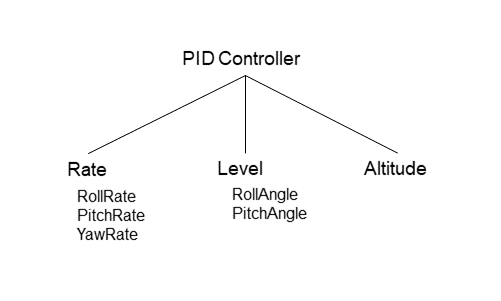
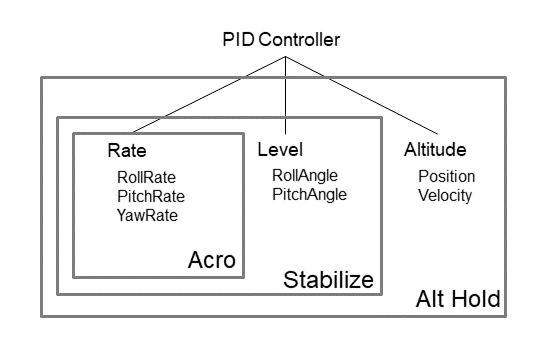
Updated diagram

Changed region(s): [[0.0599, 0.0897, 0.9281, 0.897], [0.7485, 0.3289, 0.7784, 0.3588]]

diff --git a/README.md b/README.md
@@ -214,7 +214,7 @@ roll and pitch axes.   To support this arrangement in Hackflight, PID
 controllers for aux state 0 will also run in aux states 1 and 2, and PID
 controllers for aux state 1 will also run in aux state 2.
 
-<p align="center"> <img src="extras/media/pidcontrollers2.png" width=600> </p>
+<p align="center"> <img src="extras/media/pidcontrollers.png" width=600> </p>
 
 If you're mathematically-minded, you can think of a PID Controller as a function from a (<i>State</i>, <i>Demands</i>) pair to <i>Demands</i>:
 <br><i>PID Controller</i>: <i>State</i> &times; <i>Demands</i> &rarr; <i>Demands</i>
